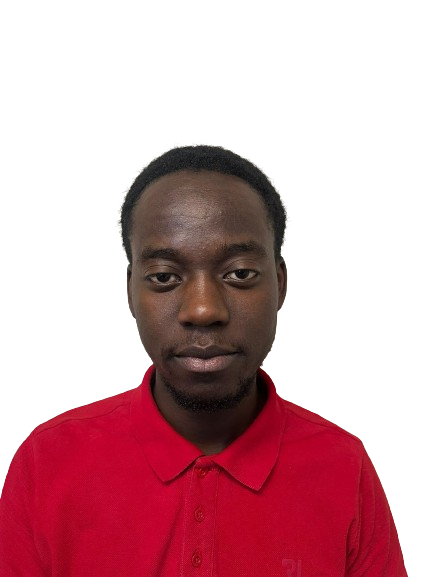
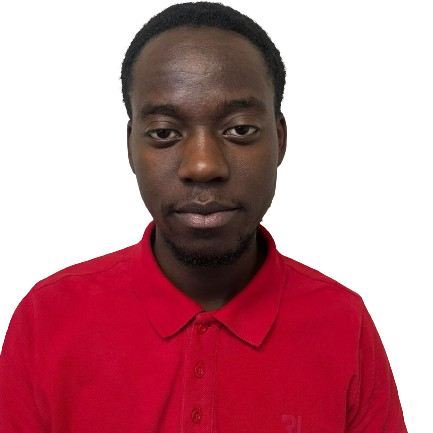
Changes

diff --git a/team.html b/team.html
@@ -119,11 +119,11 @@
                 }
               }
             </script>
-            <div class="swiper-wrapper">
+            <div class="swiper-wrapper" style="justify-content: center;">
               <div class="swiper-slide">
                 <div class="team">
                   <div class="pic">
-                    <img src="assets/img/prof.png" alt="Image" class="img-fluid">
+                    <img src="assets/img/prof.png" alt="Image" class="img-fluid" style="height: 350px; object-fit: cover;">
                   </div>
                   <h3 clas="">
                     <a href="#">Prof Abejide Ade-Ibijola</a>
@@ -136,7 +136,7 @@
               <div class="swiper-slide">
                 <div class="team">
                   <div class="pic">
-                    <img src="assets/img/VanEck.png" alt="Image" class="img-fluid" style="height: 420px;">
+                    <img src="assets/img/VanEck.png" alt="Image" class="img-fluid" style="height: 350px;width: 500px; object-fit: contain;">
                   </div>
                   <h3 clas="">
                     <a href="#">Prof MM van Eck</a>
@@ -146,32 +146,7 @@
                 
                 </div>
               </div>
-              <div class="swiper-slide">
-                <div class="team">
-                  <div class="pic">
-                    <img src="assets/img/jackie.png" alt="Image" class="img-fluid">
-                  </div>
-                  <h3 clas="">
-                    <a href="#">Jackie Takudzwa Musakwa</a>
-                  </h3>
-                  <span class="d-block position">Software Developer <br>Bsc Computer Science, University of Johannesburg</span>
-               
-               
-                </div>
-              </div>
-              <div class="swiper-slide">
-                <div class="team">
-                  <div class="pic">
-                    <img src="assets/img/rn.png" alt="Image" class="img-fluid" style="width: 310px;">
-                  </div>
-                  <h3 clas="">
-                    <a href="#">Ruan Bezuidenhout</a>
-                  </h3>
-                  <span class="d-block position">Software Developer <br>Bsc Computer Science, University of Johannesburg</span>
-                 
-               
-                </div>
-              </div>
+             
               <!-- <div class="swiper-slide"></div> -->
             </div>
           </div>
@@ -231,7 +206,7 @@
               <div class="swiper-slide">
                 <div class="team">
                   <div class="pic">
-                    <img src="assets/img/ph.png" alt="Image" class="img-fluid">
+                    <img src="assets/img/Sabelo.png" alt="Image" class="img-fluid" style="height: 350px;width: 500px; object-fit: cover;">
                   </div>
                   <h3 clas="">
                     <a href="#">Sabelo Zindela</a>
@@ -243,21 +218,19 @@
               <div class="swiper-slide">
                 <div class="team">
                   <div class="pic">
-                    <img src="assets/img/ph.png" alt="Image" class="img-fluid" >
+                    <img src="assets/img/Gumpo.png" alt="Image" class="img-fluid" style="height: 350px;width: 500px; object-fit: contain;">
                   </div>
                   <h3 clas="">
                     <a href="#">Cebolenkosi Gumpo</a>
                   </h3>
                   <span class="d-block position">Software Developer <br>Bcom information Systems, University of
                     Johannesburg</span>
-    
-    
                 </div>
               </div>
               <div class="swiper-slide">
                 <div class="team">
                   <div class="pic">
-                    <img src="assets/img/ph.png" alt="Image" class="img-fluid">
+                    <img src="assets/img/ph.png" alt="Image" class="img-fluid" style="height: 350px; object-fit: cover;">
                   </div>
                   <h3 clas="">
                     <a href="#">Andile Thebete</a>
@@ -271,20 +244,198 @@
               <div class="swiper-slide">
                 <div class="team">
                   <div class="pic">
-                    <img src="assets/img/ph.png" alt="Image" class="img-fluid" >
+                    <img src="assets/img/jackie.png" alt="Image" class="img-fluid" style="height: 350px; object-fit: cover;">
                   </div>
                   <h3 clas="">
-                    <a href="#">Shaun Van..</a>
+                    <a href="#">Jackie Masukwa</a>
+                  </h3>
+                  <span class="d-block position">Software Developer <br>Bsc Computer Science, University of
+                    Johannesburg</span>
+              
+              
+                </div>
+              </div>
+              <div class="swiper-slide">
+                <div class="team">
+                  <div class="pic">
+                    <img src="assets/img/shaun.png" alt="Image" class="img-fluid" style="height: 350px;width: 500px; object-fit: contain;">
+                  </div>
+                  <h3 clas="">
+                    <a href="#">Shauen Van Der Merwe</a>
                   </h3>
                   <span class="d-block position">Software Developer <br>Bcom information Systems, University of
                     Johannesburg</span>
     
+  
+                </div>
+              </div>
+              <div class="swiper-slide">
+                  <div class="team">
+                    <div class="pic">
+                      <img src="assets/img/rn.png" alt="Image" class="img-fluid" style="height: 350px;width: 500px; object-fit: contain;">
+                    </div>
+                    <h3 clas="">
+                      <a href="#">Ruan Bezuidenhout </a>
+                    </h3>
+                    <span class="d-block position">Software Developer <br>Bsc Computer Science, University of
+                      Johannesburg</span>
+                
+                
+                  </div>
+              </div>
+              <!-- <div class="swiper-slide"></div> -->
+            </div>
+          </div>
+          
+        </div>
+        <!-- /.container -->
+      </div>
+    </section>
+    <!--Team 2 eND Section-->
+
+    <!--Team 3 Section -->
     
+    <section id="team" class="team section">
+    
+      <div class="site-section slider-team-wrap">
+        <div class="container">
+    
+          <div class="slider-nav d-flex justify-content-end mb-3">
+            <a href="#" class="js-prev js-custom-prev"><i class="bi bi-arrow-left-short"></i></a>
+            <a href="#" class="js-next js-custom-next"><i class="bi bi-arrow-right-short"></i></a>
+          </div>
+    
+          <div class="swiper init-swiper" data-aos="fade-up" data-aos-delay="100">
+            <script type="application/json" class="swiper-config">
+                      {
+                        "loop": true,
+                        "speed": 600,
+                        "autoplay": {
+                          "delay": 5000
+                        },
+                        "slidesPerView": "1",
+                        "pagination": {
+                          "el": ".swiper-pagination",
+                          "type": "bullets",
+                          "clickable": true
+                        },
+                        "navigation": {
+                          "nextEl": ".js-custom-next",
+                          "prevEl": ".js-custom-prev"
+                        },
+                        "breakpoints": {
+                          "640": {
+                            "slidesPerView": 2,
+                            "spaceBetween": 30
+                          },
+                          "768": {
+                            "slidesPerView": 3,
+                            "spaceBetween": 30
+                          },
+                          "1200": {
+                            "slidesPerView": 3,
+                            "spaceBetween": 30
+                          }
+                        }
+                      }
+                    </script>
+            <div class="swiper-wrapper">
+              <div class="swiper-slide">
+                <div class="team">
+                  <div class="pic">
+                    <img src="assets/img/dean.png" alt="Image" class="img-fluid"
+                      style="height: 350px;width: 500px; object-fit: contain;">
+                  </div>
+                  <h3 clas="">
+                    <a href="#">Prof Puseletso Letete</a>
+                  </h3>
+                  <span class="d-block position">Vice Dean, Faculty of Law, University of Johannesburg</span>
+                </div>
+              </div>
+              <div class="swiper-slide">
+                <div class="team">
+                  <div class="pic">
+                    <img src="assets/img/n.png" alt="Image" class="img-fluid"
+                      style="height: 350px;width: 500px; object-fit: contain;">
+                  </div>
+                  <h3 clas="">
+                    <a href="#">Ms Natasha Naidoo</a>
+                  </h3>
+                  <span class="d-block position">Director of Law Clinic</span>
+                </div>
+              </div>
+             
+              <div class="swiper-slide">
+                <div class="team">
+                  <div class="pic">
+                    <img src="assets/img/yj.png" alt="Image" class="img-fluid" style="height: 350px; object-fit: cover;">
+                  </div>
+                  <h3 clas="">
+                    <a href="#">Dr Yvette Joubert</a>
+                  </h3>
+                  <span class="d-block position">Lecture,Private Law, Faculty of Law, University of Johannesburg</span>
+    
+    
+                </div>
+              </div>
+              <div class="swiper-slide">
+                <div class="team">
+                  <div class="pic">
+                    <img src="assets/img/elton.png" alt="Image" class="img-fluid"
+                      style="height: 350px; object-fit: cover;">
+                  </div>
+                  <h3 clas="">
+                    <a href="#">Mr Elton Hart</a>
+                  </h3>
+                  <span class="d-block position">Law Clinic Attorney</span>
+    
+    
+                </div>
+              </div>
+              <div class="swiper-slide">
+                <div class="team">
+                  <div class="pic">
+                    <img src="assets/img/nel.png" alt="Image" class="img-fluid"
+                      style="height: 350px;width: 500px; object-fit: contain;">
+                  </div>
+                  <h3 clas="">
+                    <a href="#">Dr Werner Nel</a>
+                  </h3>
+                  <span class="d-block position">Senior Lecturer, Faculty of Law, University of
+                    Johannesburg</span>
+    
+                </div>
+              </div>
+              <div class="swiper-slide">
+                <div class="team">
+                  <div class="pic">
+                    <img src="assets/img/rose.png" alt="Image" class="img-fluid"
+                      style="height: 350px;width: 500px; object-fit: contain;">
+                  </div>
+                  <h3 clas="">
+                    <a href="#">Dr Whitney Rosenberg</a>
+                  </h3>
+                  <span class="d-block position">Senior Lecturer,Faculty of Law, University of
+                    Johannesburg</span>
+    
+                </div>
+              </div>
+              <div class="swiper-slide">
+                <div class="team">
+                  <div class="pic">
+                    <img src="assets/img/lk.png" alt="Image" class="img-fluid"
+                      style="height: 350px;width: 500px; object-fit: contain;">
+                  </div>
+                  <h3 clas="">
+                    <a href="#">Mr Luis Koen</a>
+                  </h3>
+                  <span class="d-block position">Assistant Lecturer, Faculty of Law, University of Johannesburg</span>             
                 </div>
               </div>
               <!-- <div class="swiper-slide"></div> -->
             </div>
           </div>
+    
         </div>
         <!-- /.container -->
       </div>
@@ -299,7 +450,7 @@
       </div>
 
       <div class="copyright d-flex flex-column flex-md-row align-items-center justify-content-md-between">
-        <p><span>Copyright ©</span> <strong class="px-1 sitename">JBS Innovation Lab.</strong> <span>All Rights Reserved</span></p>
+        <p><span>Copyright ©</span> <strong class="px-1 sitename">JBS Innovation Lab 2024.</strong> <span>All Rights Reserved</span></p>
         <div class="credits">
           
         </div>

diff --git a/index.html b/index.html
@@ -398,7 +398,7 @@
     </div>
 
     <div class="copyright d-flex flex-column flex-md-row align-items-center justify-content-md-between">
-      <p><span>Copyright ©</span> <strong class="px-1 sitename">JBS Innovation Lab.</strong> <span>All Rights Reserved</span>
+      <p><span>Copyright ©</span> <strong class="px-1 sitename">JBS Innovation Lab 2024.</strong> <span>All Rights Reserved</span>
       </p>
       <div class="credits">
 
